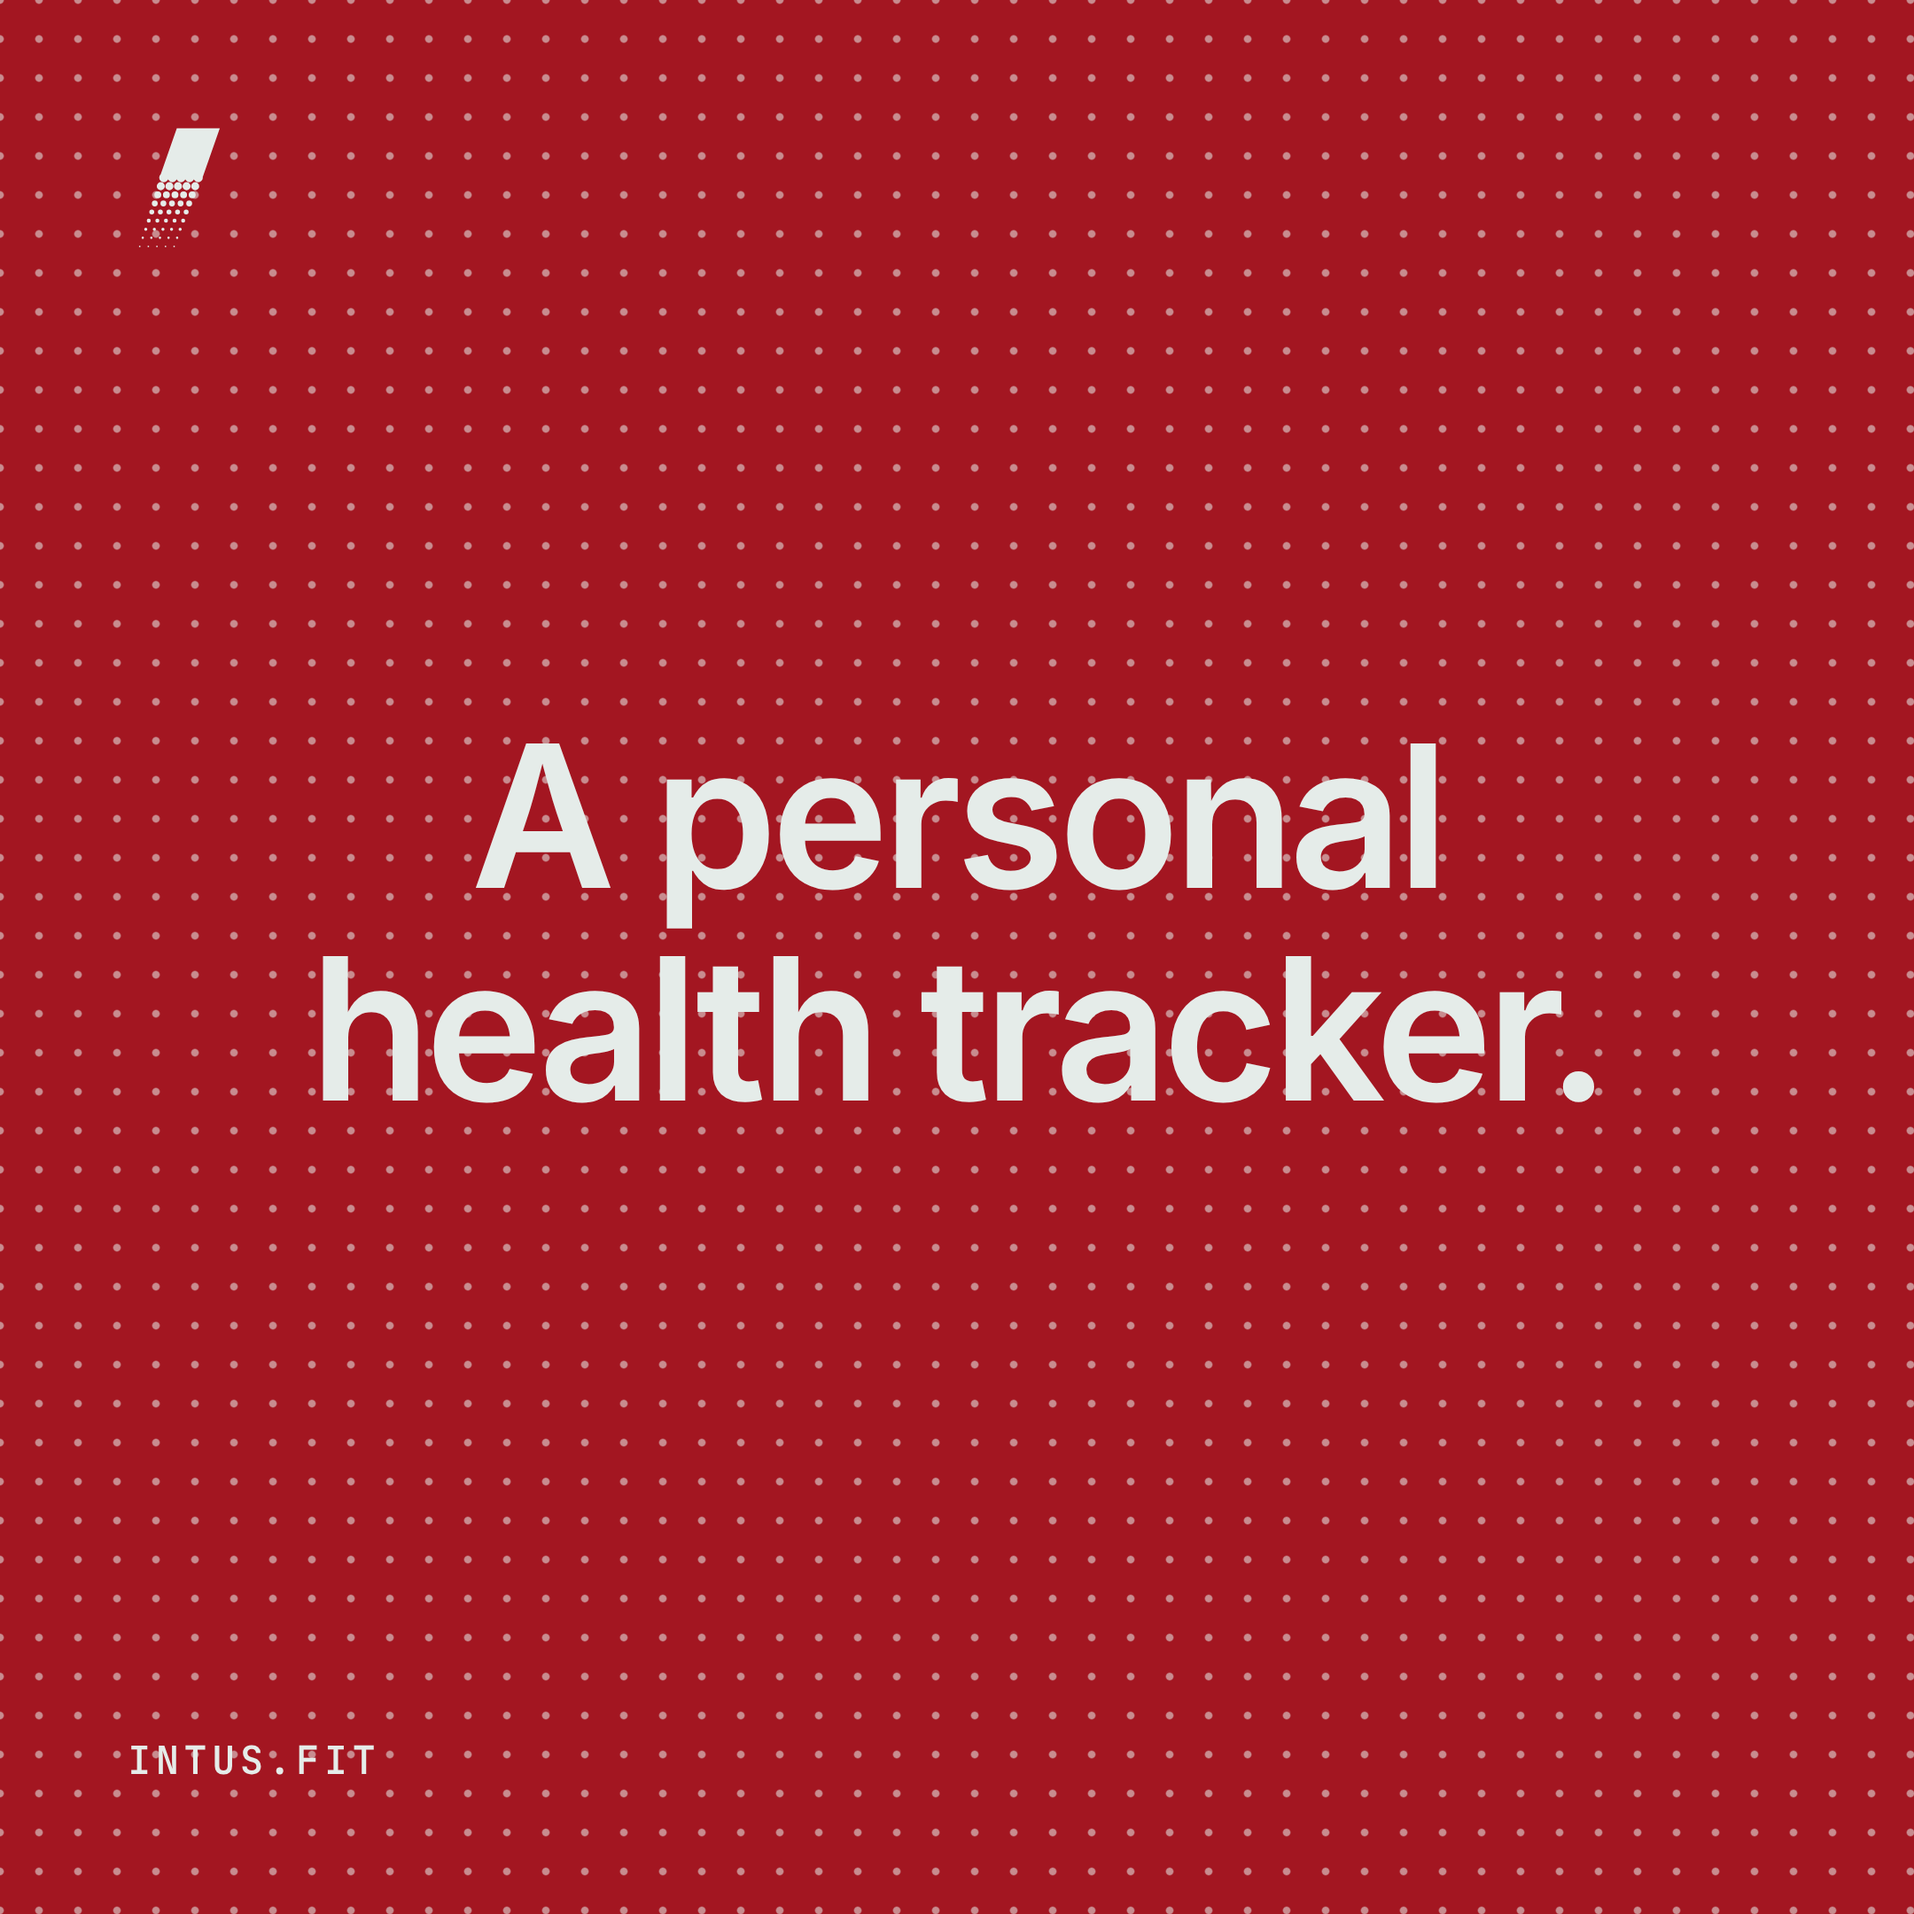
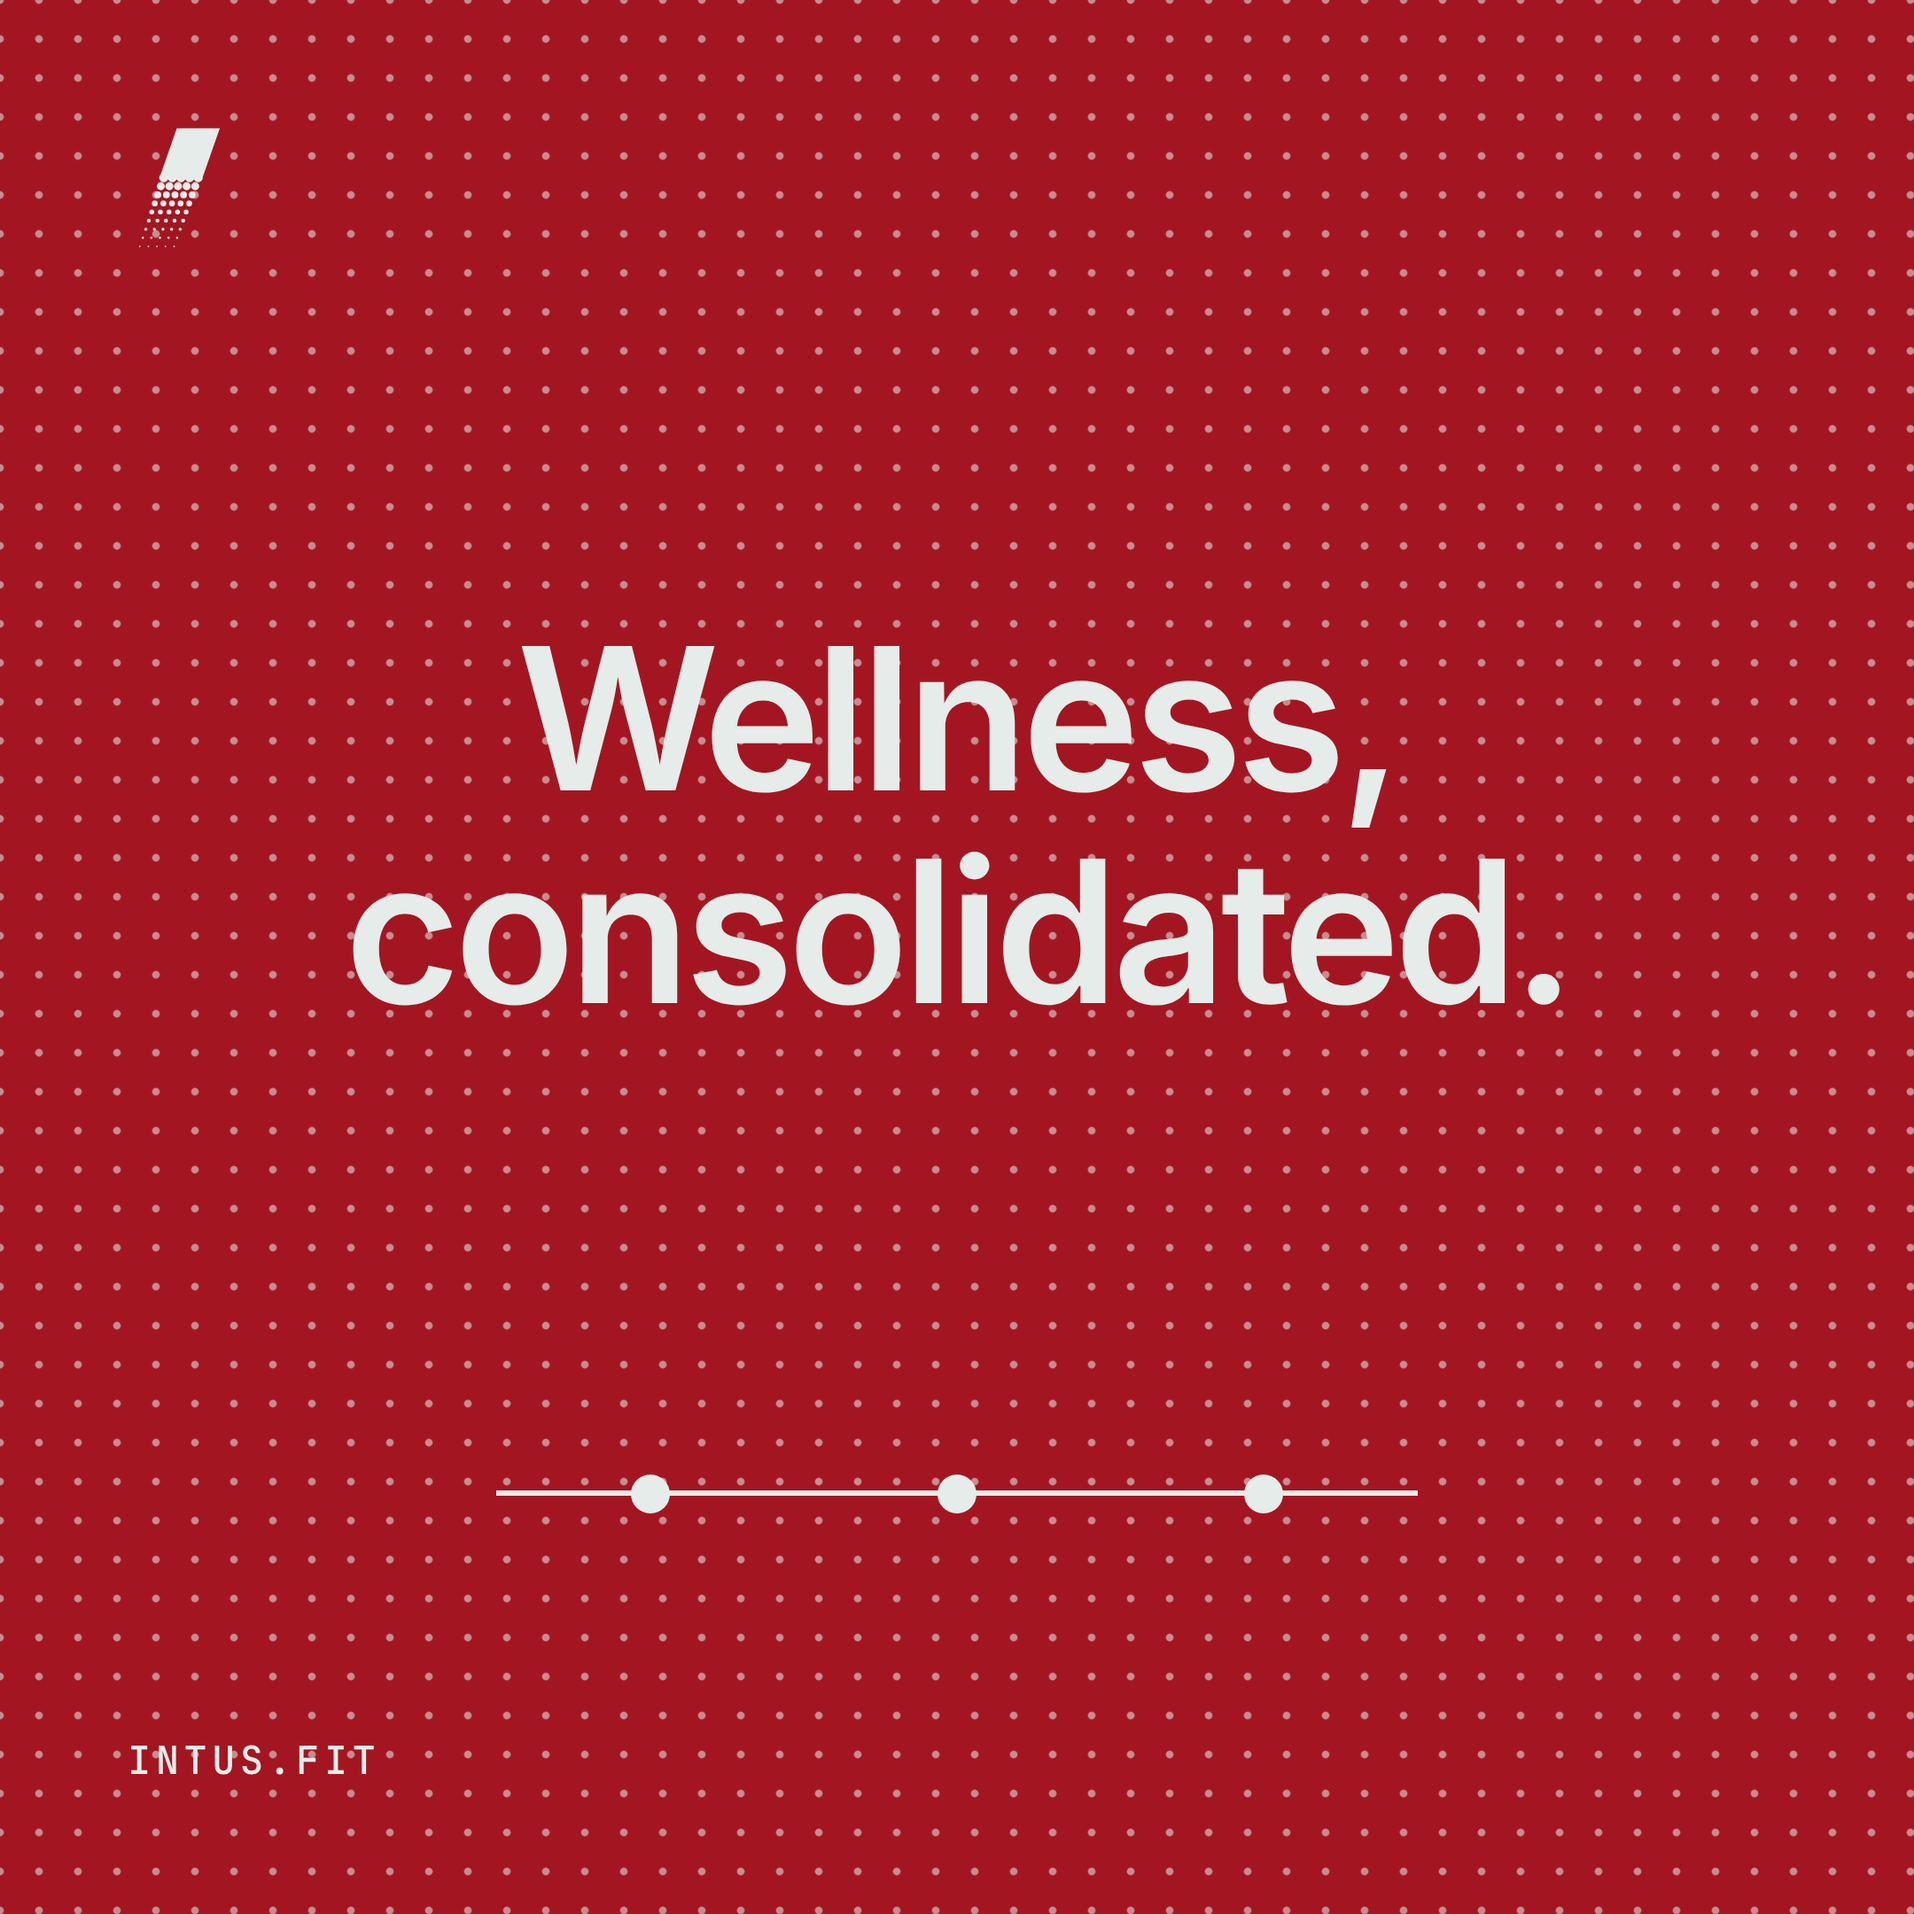
Replace pictures 11 and 12 of the hosted marketing set
11 now reads "Wellness, consolidated." with the three-dot line, and 12 reads
"A quiet record of your health.", from the founder's new drafts. Drawn at
2160 by 2160 from the design system so they stay sharp. The card table in
docs/social/photoassets.md and the alt text on the /photoassets page match.

Claude-Session: https://claude.ai/code/session_018Fza2PURWJ8PhBXojRGhzb

diff --git a/public/photoassets/index.html b/public/photoassets/index.html
@@ -84,13 +84,13 @@
     </li>
     <li>
       <figure>
-        <a href="/photoassets/11-bloodwork.png"><img src="/photoassets/11-bloodwork.png" alt="A personal health tracker." width="2160" height="2160"></a>
+        <a href="/photoassets/11-bloodwork.png"><img src="/photoassets/11-bloodwork.png" alt="Wellness, consolidated." width="2160" height="2160"></a>
         <figcaption><a href="/photoassets/11-bloodwork.png">/photoassets/11-bloodwork.png</a></figcaption>
       </figure>
     </li>
     <li>
       <figure>
-        <a href="/photoassets/12-the-timeline.png"><img src="/photoassets/12-the-timeline.png" alt="Everything you track. One quiet record." width="2160" height="2160"></a>
+        <a href="/photoassets/12-the-timeline.png"><img src="/photoassets/12-the-timeline.png" alt="A quiet record of your health." width="2160" height="2160"></a>
         <figcaption><a href="/photoassets/12-the-timeline.png">/photoassets/12-the-timeline.png</a></figcaption>
       </figure>
     </li>

diff --git a/docs/social/photoassets.md b/docs/social/photoassets.md
@@ -11,6 +11,8 @@ All 20 pictures were redrawn and the copy was rewritten. The file names did not 
 - The copy of the old pictures 14 and 18 ("Pay once. Keep it. Forever." and "You already pay for the tracker, the food and the tests.") is gone, because it broke the no-pricing rule in `facts.md`. Pictures 16 and 20 were reworded to say only things in `facts.md`.
 - Every picture now says one thing that is true of the product today, or asks a plain question. The fact ids below are the ones to cite. "Framing" means the picture makes no claim about the product.
 
+Pictures 11 and 12 were replaced again on 29 Oct 2026 ("Wellness, consolidated." and "A quiet record of your health."), after the first version 3 upload. They were "A personal health tracker." and "Everything you track. One quiet record.".
+
 If a Buffer post still says something that matched the old picture, change the post, not the picture.
 
 ## The pictures
@@ -27,8 +29,8 @@ If a Buffer post still says something that matched the old picture, change the p
 | 08 | `08-output.png` | paper | Day 1 and day 90 never meet. | gap D1 and D90 | framing, no claim | What you get out. |
 | 09 | `09-the-stack.png` | paper | Compared to what? | none | framing, no claim | Three capsules a day. For how long now? |
 | 10 | `10-the-gap.png` | red | Intus. | dot | F1 | Day 1 and day 90 never meet. |
-| 11 | `11-bloodwork.png` | red | A personal health tracker. | none | F1 | Your last blood test is in a drawer. |
-| 12 | `12-the-timeline.png` | red | Everything you track. One quiet record. | line, 3 dots | F1 | One line. Everything on it. |
+| 11 | `11-bloodwork.png` | red | Wellness, consolidated. | line, 3 dots | F1 | Your last blood test is in a drawer. |
+| 12 | `12-the-timeline.png` | red | A quiet record of your health. | none | F1 | One line. Everything on it. |
 | 13 | `13-stop-guessing.png` | paper | Started a supplement? Mark the day. | split BEFORE, START, AFTER | F7 | Guessing is not a strategy. |
 | 14 | `14-ownership.png` | paper | Check every result before it is saved. | none | F3 | Pay once. Keep it. Forever. (removed: pricing) |
 | 15 | `15-introducing.png` | paper | Every result names its range. | none | F4 | Your inputs. Your outputs. One timeline. |
